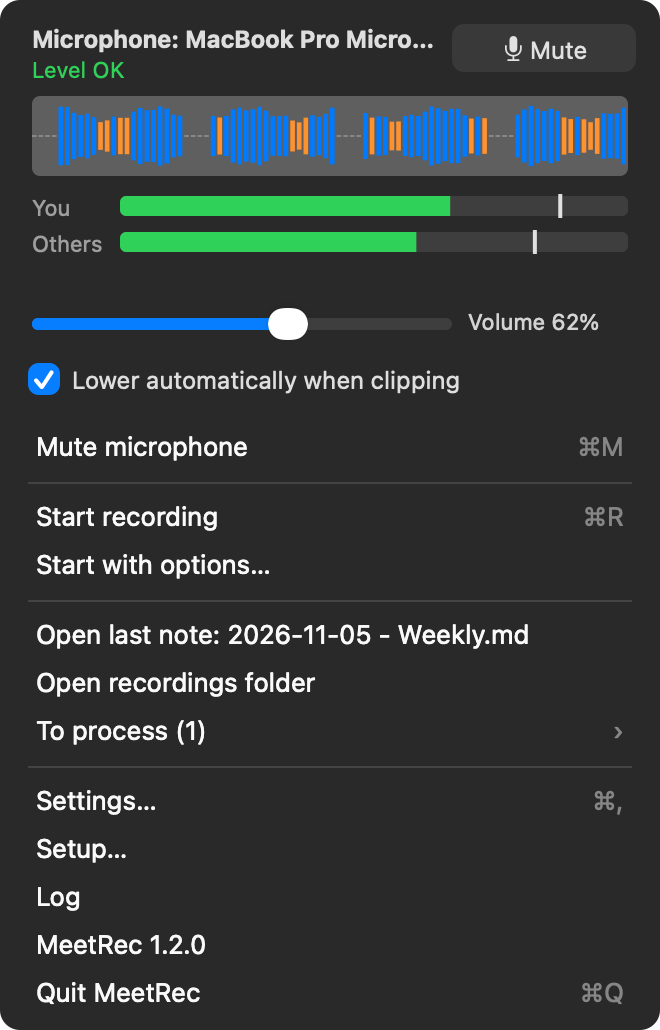
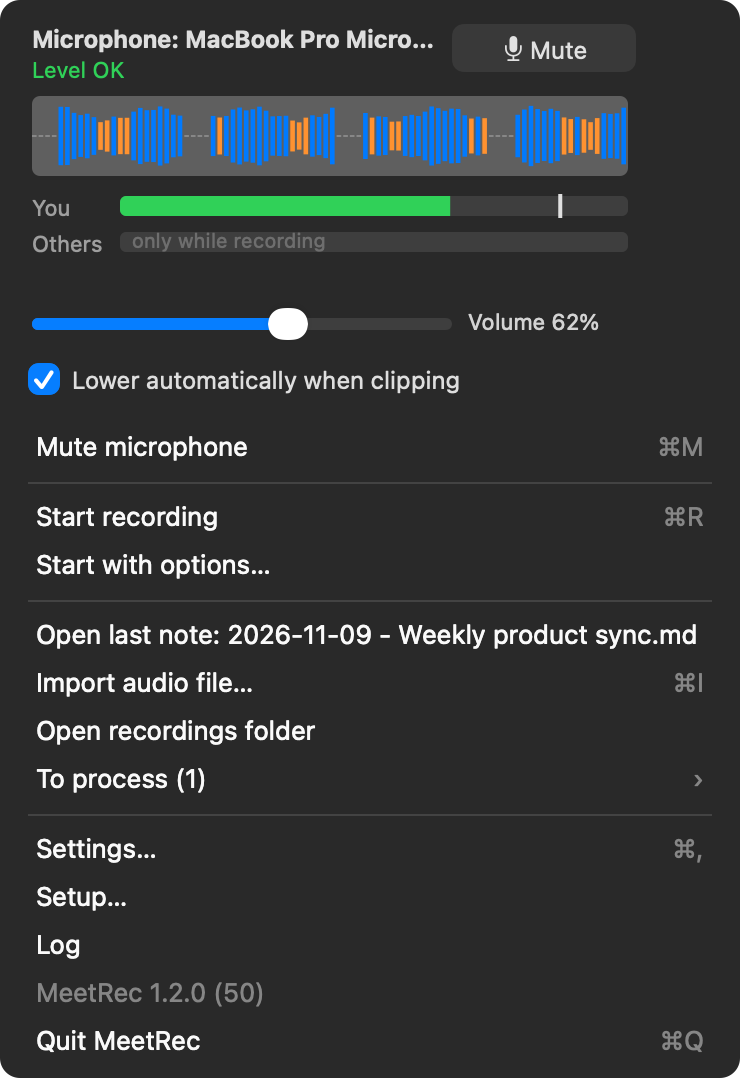
README menu pictures built from the app's own menu
--render-docs now builds the real NSMenu (menuNeedsUpdate) and draws its
items, shortcuts and disabled rows under the level panel, so the pictures
cannot fall behind the menu again (Import audio file was missing). New
docs/menu-recording.png: the menu while recording (stop and process, stop
without processing, stop and discard), used in step 2 of the tour.

diff --git a/menubar/main.swift b/menubar/main.swift
@@ -464,7 +464,11 @@ final class AppDelegate: NSObject, NSApplicationDelegate, NSMenuDelegate, NSWind
     func menuDidClose(_ menu: NSMenu) { levels.close() }
 
     // current recording from the CLI state file (works also if started from the terminal)
+    /// set only by --render-docs, to draw the menu of a recording without recording
+    var docsRecording: Date?
+
     func current() -> (start: Date, title: String?, alive: Bool, dir: String)? {
+        if let s = docsRecording { return (s, "Weekly product sync", true, "") }
         guard let d = FileManager.default.contents(atPath: stateFile),
               let j = try? JSONSerialization.jsonObject(with: d) as? [String: Any],
               let s = j["started_at"] as? String, let pid = j["pid"] as? Int,
@@ -1162,55 +1166,62 @@ func renderDocs(_ dir: String, _ d: AppDelegate) {
     panel.addSubview(lv)
     savePNG(panel, dir + "/levels.png")
 
-    // the whole menu: level panel + items, drawn like a dark macOS menu
-    let rowH: CGFloat = 24, sepH: CGFloat = 11, pad: CGFloat = 6
-    let rows: [(String, String)?] = [
-        (T("mute_mic_menu"), "⌘M"),
-        nil,
-        (T("start_recording"), "⌘R"), (T("start_with_title"), ""),
-        nil,
-        (T("open_last_note") + "2026-11-05 - Weekly.md", ""), (T("open_recordings_folder"), ""),
-        (T("to_process") + " (1)", "›"),
-        nil,
-        (T("settings"), "⌘,"), (T("setup_menu"), ""), ("Log", ""),
-        ("MeetRec " + (Bundle.main.infoDictionary?["CFBundleShortVersionString"] as? String ?? "dev"), ""),
-        (T("quit_meetrec"), "⌘Q"),
-    ]
-    let itemsH = rows.reduce(CGFloat(0)) { $0 + ($1 == nil ? sepH : rowH) }
-    let menuView = FlippedView(frame: NSRect(x: 0, y: 0, width: lv.frame.width, height: lv.frame.height + itemsH + pad * 2))
-    menuView.appearance = dark
-    menuView.wantsLayer = true
-    menuView.layer?.backgroundColor = NSColor(white: 0.16, alpha: 1).cgColor
-    menuView.layer?.cornerRadius = 10
-    let lv2 = LevelView()
-    lv2.micName = lv.micName; lv2.history = lv.history; lv2.mic = lv.mic; lv2.sys = lv.sys
-    lv2.setVolume(0.62); lv2.agcBox.state = .on; lv2.agcBox.title = lv.agcBox.title
-    lv2.setMuted(false, unsupported: false)
-    lv2.frame.origin = NSPoint(x: 0, y: pad)
-    menuView.addSubview(lv2)
-    var y = lv2.frame.maxY
-    let font = NSFont.menuFont(ofSize: 13)
-    for r in rows {
-        guard let (title, key) = r else {
-            let sep = NSBox(frame: NSRect(x: 14, y: y + sepH / 2, width: menuView.frame.width - 28, height: 1))
-            sep.boxType = .separator
-            menuView.addSubview(sep)
-            y += sepH
-            continue
+    // the menu, built by the app itself (same items, shortcuts and disabled rows as on screen),
+    // drawn under the level panel: idle and while recording
+    d.lastNote = "/Users/you/Obsidian/Notes/Work/Meetings/2026-11/2026-11-09 - Weekly product sync.md"
+    d.recover = [["started_at": "2026-11-06T15:02:11+01:00", "duration": "0h23m10s", "title": "Supplier call",
+                  "dir": "/Users/you/Recordings/meetings/2026-11-06_150211"]]
+    func drawMenu(_ file: String, recording: Bool) {
+        d.docsRecording = recording ? Date().addingTimeInterval(-(12 * 60 + 34)) : nil
+        let menu = NSMenu()
+        d.menuNeedsUpdate(menu)
+        let items = menu.items.filter { $0.view == nil }          // the level panel is drawn below
+        let rowH: CGFloat = 24, sepH: CGFloat = 11, pad: CGFloat = 6
+        let lv2 = LevelView()
+        lv2.micName = lv.micName; lv2.history = lv.history; lv2.mic = lv.mic
+        lv2.sys = recording ? lv.sys : nil
+        lv2.recording = recording
+        lv2.setVolume(0.62); lv2.agcBox.state = .on; lv2.agcBox.title = lv.agcBox.title
+        lv2.setMuted(false, unsupported: false)
+        let itemsH = items.reduce(CGFloat(0)) { $0 + ($1.isSeparatorItem ? sepH : rowH) }
+        let menuView = FlippedView(frame: NSRect(x: 0, y: 0, width: lv2.frame.width + 40, height: lv2.frame.height + itemsH + pad * 2))
+        menuView.appearance = dark
+        menuView.wantsLayer = true
+        menuView.layer?.backgroundColor = NSColor(white: 0.16, alpha: 1).cgColor
+        menuView.layer?.cornerRadius = 10
+        lv2.frame.origin = NSPoint(x: 0, y: pad)
+        menuView.addSubview(lv2)
+        var y = lv2.frame.maxY
+        let font = NSFont.menuFont(ofSize: 13)
+        for it in items {
+            if it.isSeparatorItem {
+                let sep = NSBox(frame: NSRect(x: 14, y: y + sepH / 2, width: menuView.frame.width - 28, height: 1))
+                sep.boxType = .separator
+                menuView.addSubview(sep)
+                y += sepH
+                continue
+            }
+            let enabled = it.action != nil && it.isEnabled || it.submenu != nil
+            var key = ""
+            if it.submenu != nil { key = "›" } else if !it.keyEquivalent.isEmpty { key = "⌘" + it.keyEquivalent.uppercased() }
+            let t = NSTextField(labelWithString: (it.state == .on ? "✓ " : "") + it.title)
+            t.font = font; t.textColor = enabled ? .labelColor : .tertiaryLabelColor
+            t.lineBreakMode = .byTruncatingTail
+            t.frame = NSRect(x: 16, y: y + 3, width: menuView.frame.width - (key.isEmpty ? 32 : 92), height: 18)
+            menuView.addSubview(t)
+            if !key.isEmpty {
+                let k = NSTextField(labelWithString: key)
+                k.font = font; k.textColor = .tertiaryLabelColor; k.alignment = .right
+                k.frame = NSRect(x: menuView.frame.width - 76, y: y + 3, width: 60, height: 18)
+                menuView.addSubview(k)
+            }
+            y += rowH
         }
-        let t = NSTextField(labelWithString: title)
-        t.font = font; t.textColor = .labelColor
-        t.frame = NSRect(x: 16, y: y + 3, width: menuView.frame.width - (key.isEmpty ? 32 : 92), height: 18)
-        menuView.addSubview(t)
-        if !key.isEmpty {
-            let k = NSTextField(labelWithString: key)
-            k.font = font; k.textColor = .tertiaryLabelColor; k.alignment = .right
-            k.frame = NSRect(x: menuView.frame.width - 76, y: y + 3, width: 60, height: 18)
-            menuView.addSubview(k)
-        }
-        y += rowH
+        savePNG(menuView, dir + "/" + file)
     }
-    savePNG(menuView, dir + "/menu.png")
+    drawMenu("menu.png", recording: false)
+    drawMenu("menu-recording.png", recording: true)
+    d.docsRecording = nil
 
     // settings window (demo config from MEETREC_CONFIG_FILE, demo account)
     let st = Settings()

diff --git a/README.md b/README.md
@@ -87,7 +87,7 @@ with the meeting title from your calendars.
 live levels of you and the others, the mic volume and the mute switch.
 
 <p align="center"><img src="docs/menubar.png" width="250" alt="Menu bar icon: ready and recording">
-<br><img src="docs/menu.png" width="330" alt="Menu with audio levels and commands"></p>
+<br><img src="docs/menu-recording.png" width="350" alt="Menu while recording: levels, stop and process, stop and discard"></p>
 
 **3. You stop.** MeetRec lists the events found in every calendar at that time and asks which
 meeting it was.
@@ -152,6 +152,8 @@ checks and installs what MeetRec needs and holds your calendar accounts.
 | <img src="docs/settings.png" width="330" alt="Settings window"> | <img src="docs/setup.png" width="330" alt="Setup window"> |
 
 ### The menu
+
+<p align="center"><img src="docs/menu.png" width="350" alt="Menu when idle: levels, mute, start, import, recordings to process, settings, setup"></p>
 
 The top of the menu shows the level panel:
 - **waveform**: the last 9 seconds of the microphone. Blue means OK, orange means low, red means
